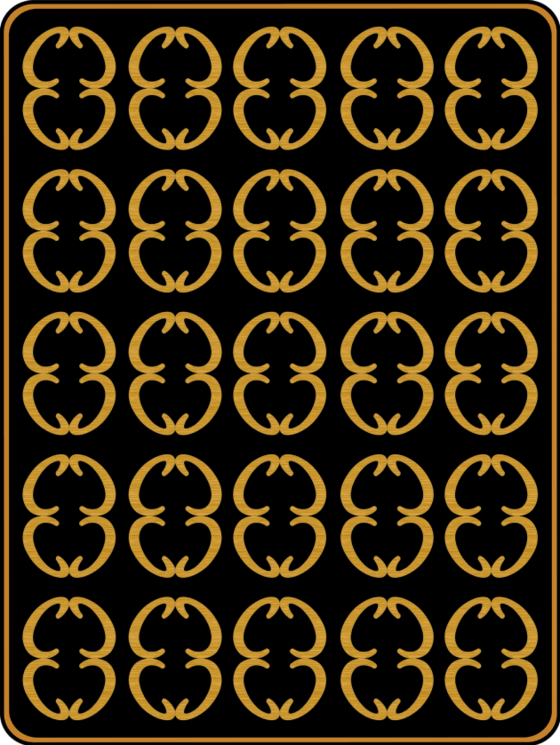
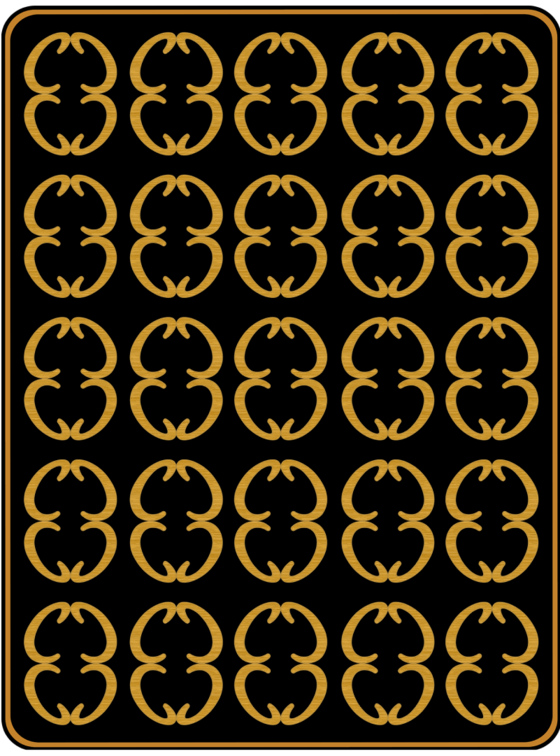
Optimize Colelction page

Changed region(s): [[0.0, 0.0, 1.0, 1.0]]

diff --git a/src/pages/Collections.js b/src/pages/Collections.js
@@ -1,4 +1,3 @@
-
 import NftCollection from '../components/elements/NftCollection';
 import PageHeader from '../components/layout/PageHeader';
 import Header from '../components/layout/Header';
@@ -6,20 +5,20 @@ import Footer from '../components/layout/Footer';
 
 // Assets
 import tier1NftImage from '../assets/the-one-and-only.png';
-import tier2NftImage from '../assets/dealers-choice.png';
-import tier3NftImage from '../assets/neon-idol.png';
-import tier4NftImage from '../assets/off-the-rack.png';
+import tier1NftWebPImage from '../assets/the-one-and-only_lossyalpha.webp';
 
-import discordLogo from '../assets/discord-logo.svg';
-import twitterLogo from '../assets/twitter-logo.svg';
+import tier2NftImage from '../assets/dealers-choice.png';
+import tier2NftWebPImage from '../assets/dealers-choice_lossyalpha.webp';
+
+import tier3NftImage from '../assets/neon-idol.png';
+import tier3NftWebPImage from '../assets/neon-idol_lossyalpha.webp';
+
+import tier4NftImage from '../assets/off-the-rack.png';
+import tier4NftWebPImage from '../assets/off-the-rack_lossyalpha.webp';
+
 import JoinCommunitySection from '../components/elements/JoinCommunitySection';
 
 function Collections() {
-
-  let discordLink = 'https://discord.com/invite/vegasvickienft';
-  let twitterLink = 'https://twitter.com/VegasVickie';
-
-  let sectionHeading = "text-2xl sm:text-3xl text-white font-bold tracking-widest uppercase sm:text-center";
   
   let tier1CollectorPerks = [
     {
@@ -148,6 +147,7 @@ function Collections() {
             name="The One and Only"
             description=""
             nftImage={tier1NftImage}
+            nftWebPImage={tier1NftWebPImage}
             perks={tier1CollectorPerks}
             totalSupply={1}
             maxSupply={"1/1"}
@@ -159,6 +159,7 @@ function Collections() {
             name="Dealer's Choice"
             description=""
             nftImage={tier2NftImage}
+            nftWebPImage={tier2NftWebPImage}
             perks={tier2CollectorPerks}
             mintPrice={"TBD"}
             maxSupply={"54"}
@@ -169,6 +170,7 @@ function Collections() {
             name="Neon Idol"
             description=""
             nftImage={tier3NftImage}
+            nftWebPImage={tier3NftWebPImage}
             perks={tier3CollectorPerks}
             mintPrice={"TBD"}
             maxSupply={"250"}
@@ -179,6 +181,7 @@ function Collections() {
             name="Off the Rack"
             description=""
             nftImage={tier4NftImage}
+            nftWebPImage={tier4NftWebPImage}
             perks={tier4CollectorPerks}
             mintPrice={"TBD"}
             maxSupply={"2500"}

diff --git a/src/components/elements/NftCollection.js b/src/components/elements/NftCollection.js
@@ -1,11 +1,14 @@
-function NftCollection ({name, description, nftImage, availableText, perks, mintPrice, maxSupply, actionBox}) {
+function NftCollection ({name, description, nftImage, nftWebPImage, availableText, perks, mintPrice, maxSupply, actionBox}) {
   let sectionHeading2 = "text-md sm:text-lg text-white font-bold tracking-widest uppercase";
   let bodyTextSmall = 'font-gilroy text-white text-lg';
 
   return (
     <div className="md:flex justify-center pb-24 sm:pb-52 space-x-0 sm:space-x-24 p-4 sm:p-0">
       <div className="w-full md:w-1/2 flex-none basis-1/4 justify-items-center">
-        <img src={nftImage} alt="Preview of NFT" className="max-h-72 md:max-h-full m-auto"/>
+        <picture>
+          <source srcset={`${nftWebPImage} 620w`} type="image/webp" />
+          <img src={nftImage} alt="Preview of NFT" className="w-full max-h-72 md:max-h-full m-auto aspect-[620/838]"/>
+        </picture>
         <div className="w-full pt-8 pb-8 sm:pb-0">
           <p className="font-gilroy text-white text-md text-center">{availableText}</p>
         </div>

diff --git a/src/components/layout/Header.js b/src/components/layout/Header.js
@@ -5,6 +5,7 @@ import { MenuIcon, XIcon } from '@heroicons/react/outline'
 import { Link } from 'react-router-dom';
 
 import vvLogo from '../../assets/vv-logo-small.png';
+import vvLogoWebP from '../../assets/vv-logo-small_lossyalpha.webp';
 
 function Header() {
   const navItems = [
@@ -32,7 +33,10 @@ function Header() {
               </div>
               <div className="flex-1 flex-cols">
                 <div className="flex place-content-center content-center justify-center align-center">
-                  <img src={vvLogo} className="h-16 sm:h-28" />
+                  <picture>
+                    <source srcSet={`${vvLogoWebP} 744w`} type="image/webp" />
+                    <img src={vvLogo} alt="Vegas Vickie Logo" className="h-16 sm:h-28 aspect-[417/112]" />
+                  </picture>
                 </div>
                 <div className="hidden sm:relative sm:flex sm:space-x-8 font-display justify-center font-gilroy uppercase">
                   <ul className="flex flex-inital text-white border-t border-gray-600 w-1/3 justify-center">

diff --git a/src/components/elements/JoinCommunitySection.js b/src/components/elements/JoinCommunitySection.js
@@ -21,10 +21,10 @@ function JoinCommunitySection ({name, description, nftImage, availableText, perk
         <div className="flex flex-row flex-initial items-center space-x-4">
           <a href={discordLink} className="w-auto flex items-center justify-center px-6 py-2 border border-transparent text-base font-medium rounded-full text-black uppercase bg-vickie-yellow hover:bg-vickie-yellow">Join the Community</a>
           <a href={discordLink} className="block w-fit p-3 rounded-full bg-[#5865F2] aspect-square flex justify-center items-center">
-            <img src={discordLogo} alt="Discord Logo" className="w-8"/>
+            <img src={discordLogo} alt="Discord Logo" className="w-8 aspect-[32/25]"/>
           </a>
           <a href={twitterLink} className="block w-fit p-3 rounded-full bg-[#1DA1F2] aspect-square flex justify-center items-center">
-            <img src={twitterLogo} alt="Twitter logo" className="w-8"/>
+            <img src={twitterLogo} alt="Twitter logo" className="w-8 aspect-square"/>
           </a>
         </div>
       </div>

diff --git a/src/components/layout/Footer.js b/src/components/layout/Footer.js
@@ -28,12 +28,12 @@ function Footer() {
           <ul className="flex flex-inital space-x-2 justify-end">
             <li className="w-fit">
               <a href={discordLink} target="_window" className="block w-fit p-2 rounded-full hover:bg-[#5865F2] aspect-square flex justify-center items-center">
-                <img src={discordLogo} alt="Discord Logo" className="w-4"/>
+                <img src={discordLogo} width="16" alt="Discord Logo" className="w-4 aspect-[16/18]"/>
               </a>
             </li>
             <li className="w-fit">
               <a href={twitterLink} target="_window" className="block w-fit p-2 rounded-full hover:bg-[#1DA1F2] aspect-square flex justify-center items-center">
-                <img src={twitterLogo} alt="Twitter Logo" className="w-4"/>
+                <img src={twitterLogo} alt="Twitter Logo" className="w-4 aspect-square"/>
               </a>
             </li>
           </ul>
